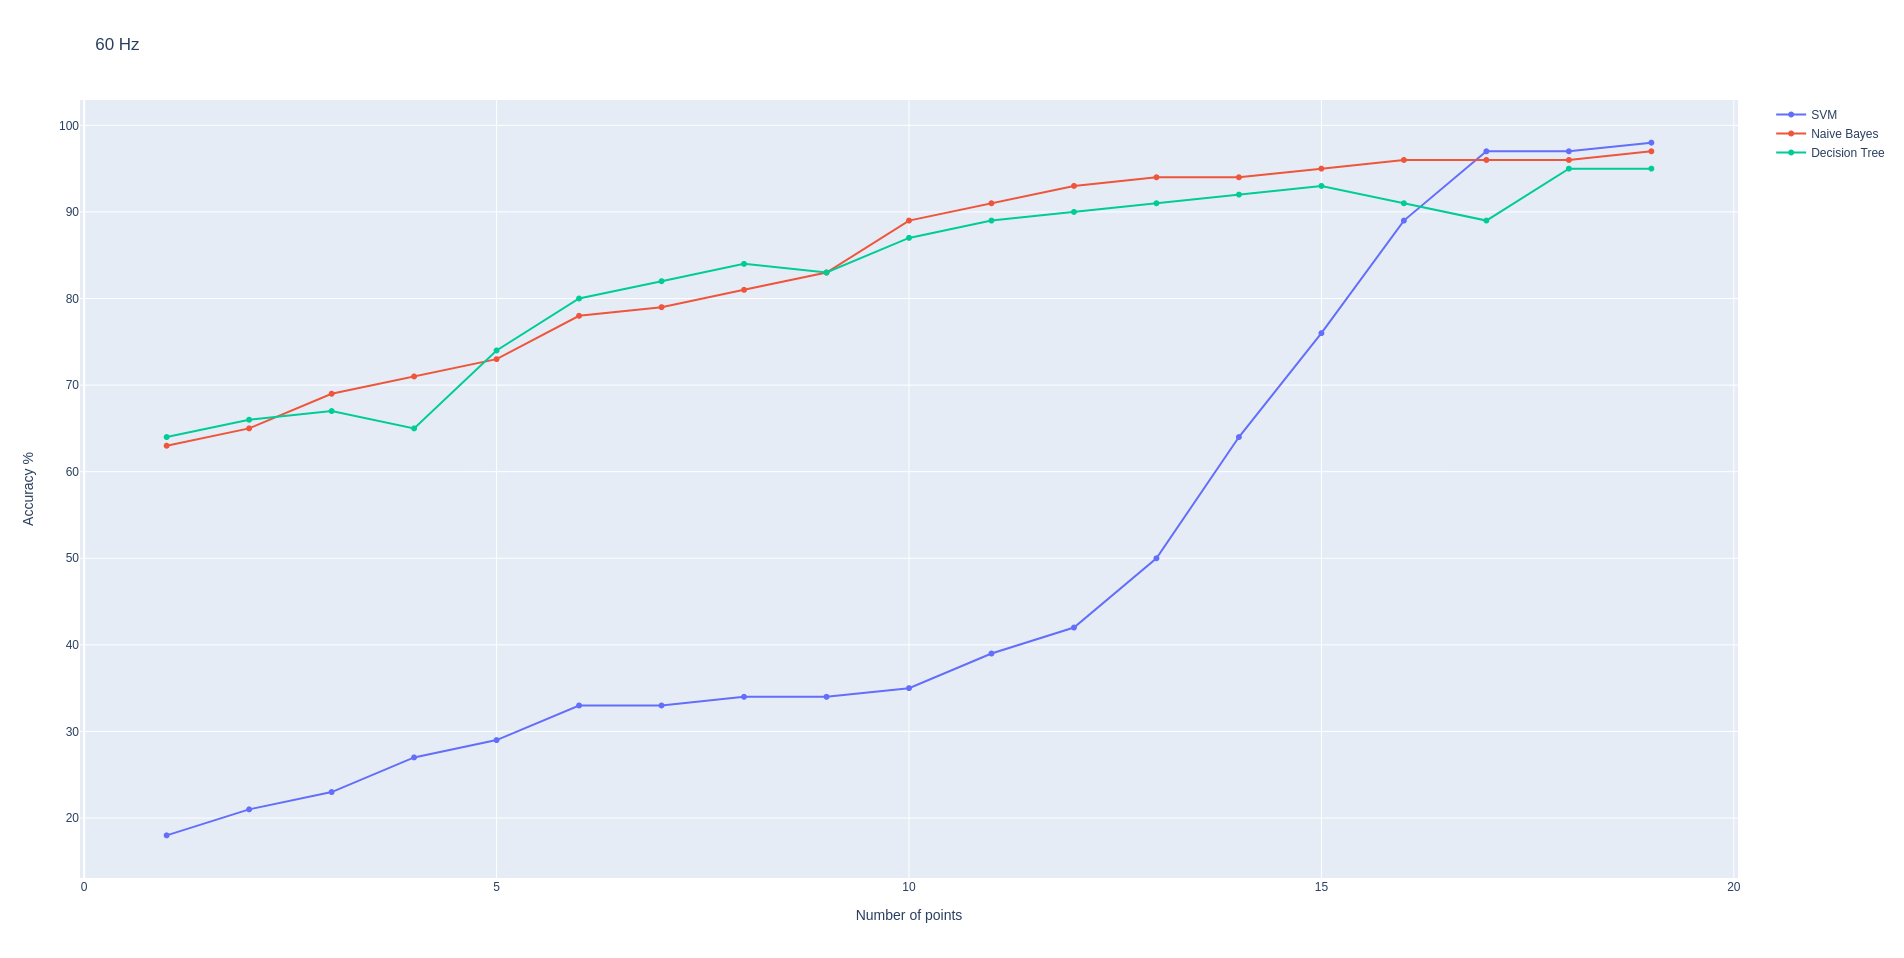
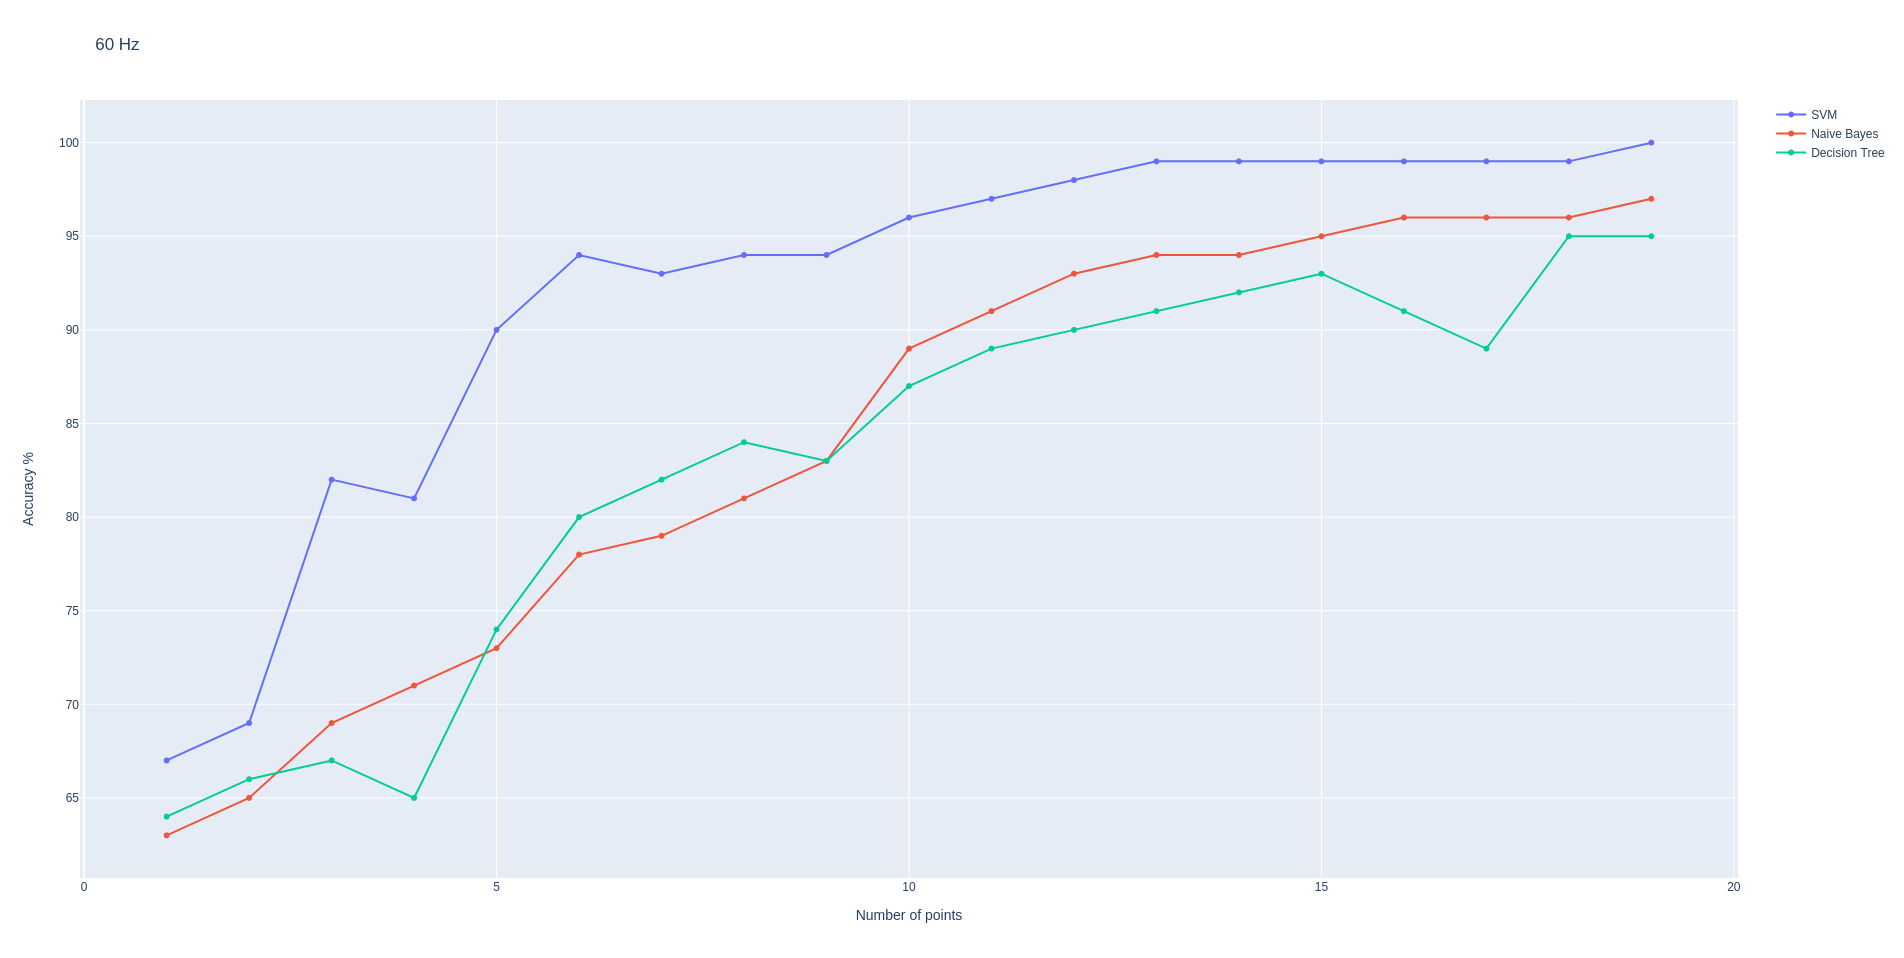
scaling and parameter tuning for svm

diff --git a/classifiers/xy_classifiers/show.py b/classifiers/xy_classifiers/show.py
@@ -5,31 +5,31 @@ import plotly
 import plotly.offline as py
 import plotly.graph_objects as go
 
-# file = pd.read_csv(sys.argv[1])
-# title = '60 Hz' if 'all' in sys.argv[1] else '22 Hz'
+file = pd.read_csv(sys.argv[1])
+title = '60 Hz' if 'all' in sys.argv[1] else '22 Hz'
 
-# num_points = 20 if 'all' in sys.argv[1] else 10
-# num_points = np.arange(1,num_points)
+num_points = 20 if 'all' in sys.argv[1] else 10
+num_points = np.arange(1,num_points)
 
-# svm = [float(i[:-1]) for i in file['SVM']]
-# naive_bayes = [float(i[:-1]) for i in file['Naive Bayes']]
-# decision_tree = [float(i[:-1]) for i in file['Decision Tree']]
+svm = [float(i[:-1]) for i in file['SVM']]
+naive_bayes = [float(i[:-1]) for i in file['Naive Bayes']]
+decision_tree = [float(i[:-1]) for i in file['Decision Tree']]
 
-# fig = go.Figure()
+fig = go.Figure()
 
-# fig.add_trace(go.Scatter(x=num_points, y=svm, name='SVM'))
-# fig.add_trace(go.Scatter(x=num_points, y=naive_bayes, name='Naive Bayes'))
-# fig.add_trace(go.Scatter(x=num_points, y=decision_tree, name='Decision Tree'))
-# fig.update_layout(title=title, xaxis=dict(title="Number of points"), yaxis=dict(title="Accuracy %"))
-# fig.show()
-
-
-classifiers = ['SVM', 'Naive Bayes', 'Decision Tree']
-fig = go.Figure(data=[go.Bar(name='60Hz', x=classifiers, y=[8.98, 22.02, 86.79], text=[8.98, 22.02, 86.79], textposition='auto'),
-					go.Bar(name='22Hz', x=classifiers, y=[34.35, 29.06, 86.46], text=[34.35, 29.06, 86.46], textposition='auto')])
-
-fig.update_layout(barmode='group')
+fig.add_trace(go.Scatter(x=num_points, y=svm, name='SVM'))
+fig.add_trace(go.Scatter(x=num_points, y=naive_bayes, name='Naive Bayes'))
+fig.add_trace(go.Scatter(x=num_points, y=decision_tree, name='Decision Tree'))
+fig.update_layout(title=title, xaxis=dict(title="Number of points"), yaxis=dict(title="Accuracy %"))
 fig.show()
+
+
+# classifiers = ['SVM', 'Naive Bayes', 'Decision Tree']
+# fig = go.Figure(data=[go.Bar(name='60Hz', x=classifiers, y=[8.98, 22.02, 86.79], text=[8.98, 22.02, 86.79], textposition='auto'),
+# 					go.Bar(name='22Hz', x=classifiers, y=[34.35, 29.06, 86.46], text=[34.35, 29.06, 86.46], textposition='auto')])
+
+# fig.update_layout(barmode='group')
+# fig.show()
 
 
 

diff --git a/classifiers/xy_classifiers/svm_classifier.py b/classifiers/xy_classifiers/svm_classifier.py
@@ -3,7 +3,8 @@ import numpy as np
 import pandas as pd
 
 from sklearn.svm import SVC
-from sklearn.model_selection import  KFold
+from sklearn.preprocessing import StandardScaler
+from sklearn.model_selection import KFold, GridSearchCV
 from sklearn.metrics import accuracy_score, confusion_matrix
 
 dataset = pd.read_csv(sys.argv[1])
@@ -13,16 +14,26 @@ n_splits = 10
 X = dataset[dataset.columns[1:len(dataset.columns)-1]].values
 y = dataset['Class'].values
 
+
 kf = KFold(n_splits=n_splits, shuffle=False, random_state=None)
 avg_acc = [0.0 for i in range(num_points)]
 conf_matrix = [np.array([0 for i in range(25)]) for i in range(num_points)]
 conf_matrix = [i.reshape(5,5) for i in conf_matrix]
 
+parameters = {'kernel' : ('linear', 'rbf'), 'C' : [1, 10]}
+
 for train_index, test_index in kf.split(X):
 	X_train, X_test = X[train_index], X[test_index]
 	y_train, y_test = y[train_index], y[test_index]	
+	# st_x = StandardScaler()
+	# st_y = StandardScaler()
+
+	# X = st_x.fit_transform(X)
+	# y = st_y.fit_transform(y.reshape(-1,1))
 
 	clf = SVC()
+	# svc = SVC()
+	# clf = GridSearchCV(svc, parameters)
 	scores = {}
 	
 	for i in range(2, len(X_train[0])+1, 2):
@@ -42,8 +53,8 @@ print("Number of points | Accuracy")
 for k in range(len(scores.keys())):
 	print("{}     		 |    {}%".format(keys[k]*2,str(round(avg_acc[k],2))))
 
-j=2
-for i in conf_matrix:
-	print("Number of pixels: {}".format(j))
-	print(i)
-	j += 2
+# j=2
+# for i in conf_matrix:
+# 	print("Number of pixels: {}".format(j))
+# 	print(i)
+# 	j += 2
